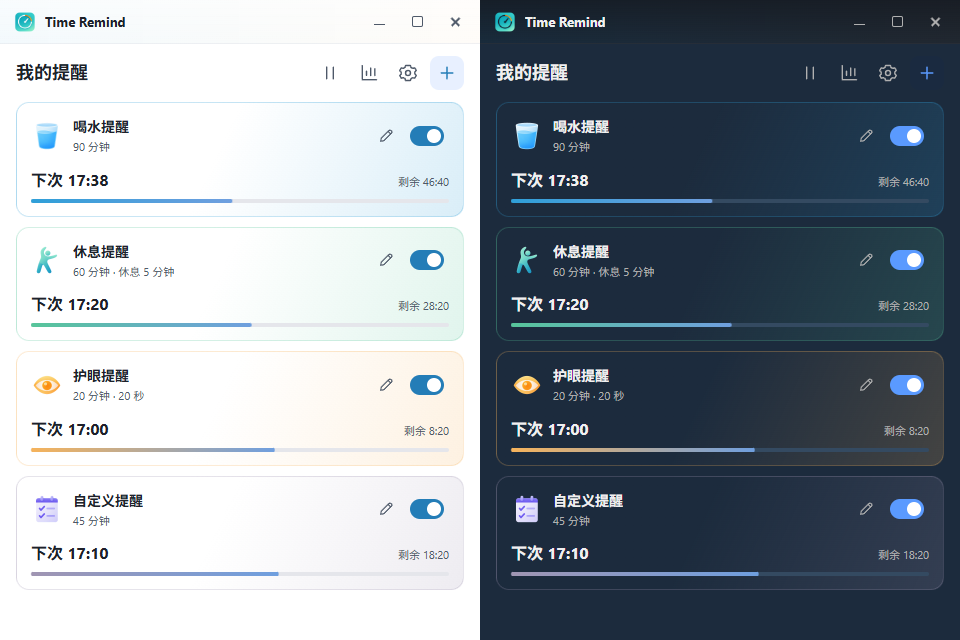
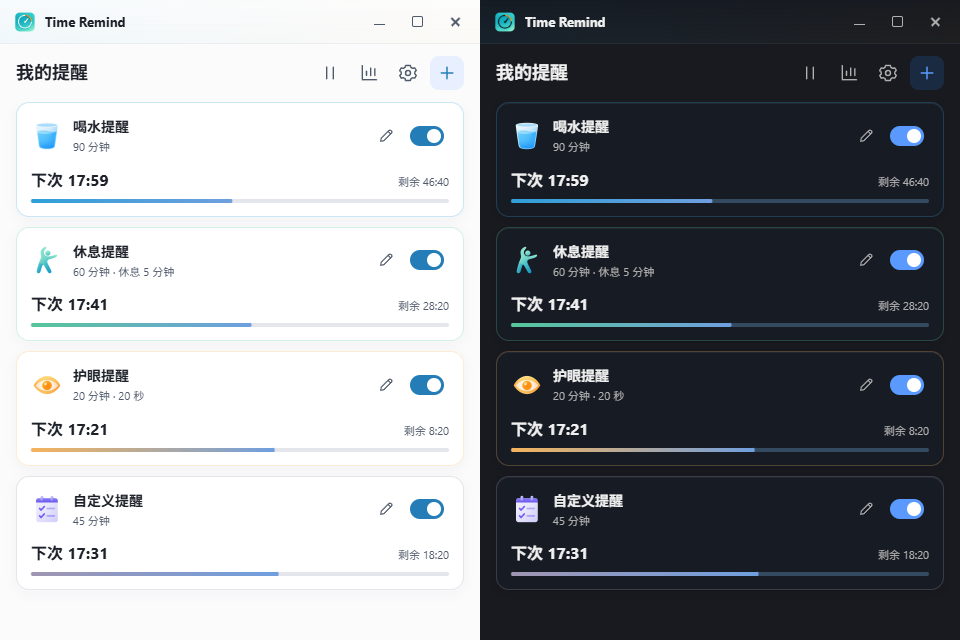
fix: restore glass surfaces and compact illustrated reminders

diff --git a/src/components/NotificationCard.vue b/src/components/NotificationCard.vue
@@ -183,10 +183,10 @@ const progress = computed(() => Math.max(0, Math.min(1, props.remainingProgress 
 .appearance-minimal { border-inline-start: 3px solid var(--notification-accent); border-radius: 12px; }
 .appearance-minimal .notification-tag::before { display: none; }
 .appearance-minimal .notification-body { display: block; align-content: center; }
-.appearance-illustrated { padding: 16px 18px; background: linear-gradient(145deg, var(--bg-primary), var(--notification-soft)); }
-.appearance-illustrated .notification-body { grid-template-columns: 112px minmax(0, 1fr); gap: 16px; }
-.appearance-illustrated .notification-visual { width: 112px; height: 122px; background: none; border-radius: 0; }
-.appearance-illustrated .notification-image { width: 112px; height: 122px; }
+.appearance-illustrated { padding: 14px 16px; gap: 8px; background: linear-gradient(145deg, var(--bg-primary), var(--notification-soft)); }
+.appearance-illustrated .notification-body { grid-template-columns: 104px minmax(0, 1fr); gap: 12px; }
+.appearance-illustrated .notification-visual { width: 104px; height: 108px; background: none; border-radius: 0; }
+.appearance-illustrated .notification-image { width: 104px; height: 108px; }
 .appearance-illustrated .notification-title { font-size: 20px; }
 .notification-collapsed { flex-direction: row; align-items: center; flex-wrap: wrap; gap: 8px; padding: 10px 12px; }
 .compact-icon { object-fit: contain; }

diff --git a/src/components/ReminderCard.vue b/src/components/ReminderCard.vue
@@ -94,7 +94,17 @@ function formatTime(seconds: number) {
 </template>
 
 <style scoped>
-.reminder-card { margin-bottom: 10px; padding: 13px 14px; border-radius: 13px; border: 1px solid var(--visual-border); background: linear-gradient(115deg, var(--bg-primary) 45%, var(--visual-soft)); }
+.reminder-card {
+  margin-bottom: 10px; padding: 13px 14px; border-radius: 13px; border: 1px solid var(--visual-border);
+  background: rgba(255, 255, 255, 0.72);
+  -webkit-backdrop-filter: blur(12px);
+  backdrop-filter: blur(12px);
+  box-shadow: 0 3px 12px rgba(15, 23, 42, 0.04), inset 0 1px 0 rgba(255, 255, 255, 0.66);
+}
+[data-theme='dark'] .reminder-card {
+  background: rgba(24, 29, 38, 0.72);
+  box-shadow: 0 3px 12px rgba(2, 6, 23, 0.16), inset 0 1px 0 rgba(255, 255, 255, 0.05);
+}
 .reminder-card-disabled { opacity: 0.65; }
 .card-top { display: flex; align-items: center; gap: 10px; }
 .icon-image { flex: 0 0 32px; object-fit: contain; }

diff --git a/src/App.vue b/src/App.vue
@@ -373,7 +373,13 @@ async function handleAdd(data: CreateReminderRequest) {
 </template>
 
 <style>
-.app-shell { position: relative; display: flex; flex-direction: column; height: 100vh; overflow: hidden; background: var(--bg-primary); }
+.app-shell {
+  position: relative; display: flex; flex-direction: column; height: 100vh; overflow: hidden;
+  background: rgba(255, 255, 255, 0.8);
+  -webkit-backdrop-filter: blur(12px);
+  backdrop-filter: blur(12px);
+}
+[data-theme='dark'] .app-shell { background: rgba(24, 24, 27, 0.8); }
 .app-header { display: flex; align-items: center; justify-content: space-between; gap: 12px; padding: 12px 16px; }
 .title-block, .title-copy { min-width: 0; }
 .app-title { margin: 0; font-size: 18px; font-weight: 700; color: var(--text-primary); line-height: 1.3; overflow-wrap: anywhere; }

diff --git a/src/NotificationApp.vue b/src/NotificationApp.vue
@@ -178,7 +178,7 @@ const actionError = ref('')
 let disposed = false
 const windowSize = computed(() => ({
   width: collapsed.value && breakMode.value ? 340 : 400,
-  height: (collapsed.value && breakMode.value ? 96 : (notificationAppearance.value === 'illustrated' ? 304 : notificationAppearance.value === 'minimal' ? 232 : 240) + (breakMode.value ? 32 : 0)) + (actionError.value ? 44 : 0),
+  height: (collapsed.value && breakMode.value ? 96 : (notificationAppearance.value === 'illustrated' ? 264 : notificationAppearance.value === 'minimal' ? 232 : 240) + (breakMode.value ? 32 : 0)) + (actionError.value ? 44 : 0),
 }))
 let resizeQueue = Promise.resolve()
 watch([visible, windowSize], () => {

diff --git a/CHANGELOG.md b/CHANGELOG.md
@@ -5,6 +5,7 @@
 ### Improved
 
 - Implemented the approved Light companion, System simple, and Illustrated companion reminder layouts with soft blue, green, amber, and violet category colors. Existing Soft settings are retained; legacy Vivid settings open the new Illustrated layout.
+- Restored the main window's translucent glass background and tightened the Illustrated companion layout with a 40-pixel reduction in window height.
 - Replaced all seven reminder icons and unified action buttons, accessible labels, keyboard focus, and modal dismissal.
 - Made the next reminder time prominent while retaining progress bars and individual switches; moved global pause and reminder management into the top toolbar and removed duplicate routine status labels.
 - Added reminder editing with retryable save errors and confirmed deletion, a direct five-minute snooze with all saved durations still available, and a collapsible action timer.
